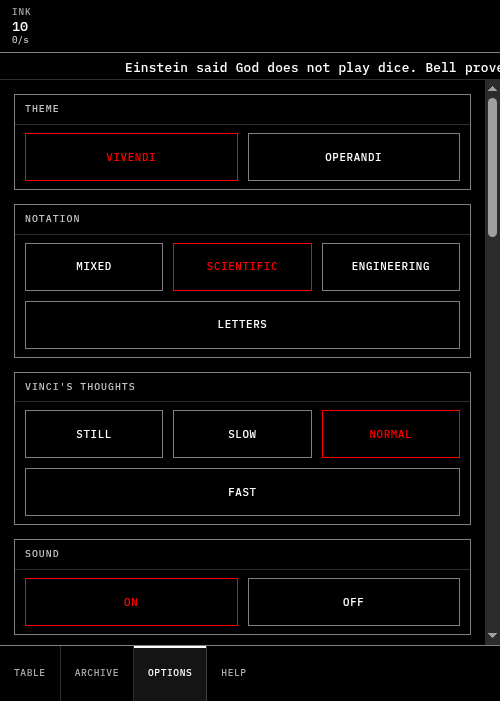
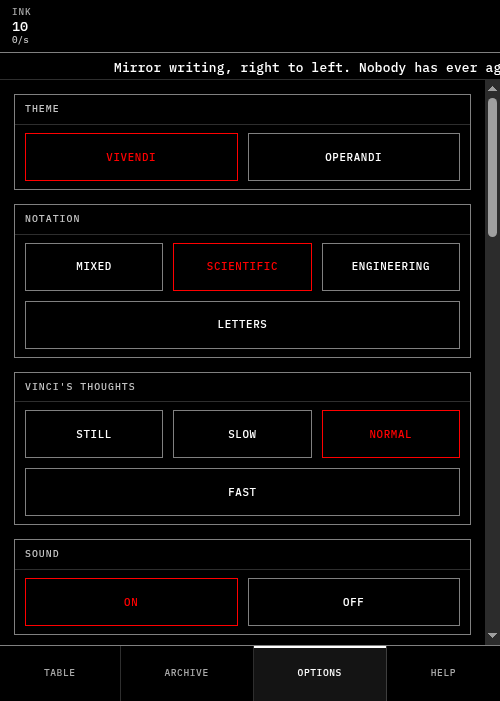
0.1.8: a tab bar that fills, and the whole screen
Sizing each tab to its own label fixed the collision and broke the other
end: an early save has four tabs, they fit easily, and 60% of the bar was
empty. They grow to share whatever width there is now and still refuse to
shrink below their own word, so four fill the bar exactly and eight
scroll. Both ends are asserted.

The app is fullscreen. An installed Android PWA paints its status bar
from the manifest, not from the runtime meta tag, and the manifest said
#000000 while the light theme is white, so the game sat between two black
bands in a colour it never chose. Android hides both bars for a
fullscreen app and the game's own ground reaches every edge instead.

iOS has no fullscreen mode and falls back to standalone, so it gets
apple-mobile-web-app-status-bar-style: black-translucent, which runs the
page under the status bar rather than below a bar of Apple's choosing.
The safe-area insets already keep content out of both.

diff --git a/index.html b/index.html
@@ -5,6 +5,11 @@
     <meta name="viewport" content="width=device-width, initial-scale=1, viewport-fit=cover" />
     <meta name="description" content="A game about Leo." />
     <meta name="theme-color" content="#000000" />
+    <!-- Installed on iOS, where there is no fullscreen mode. Translucent means
+         the page runs under the status bar rather than below a bar in a colour
+         of its own choosing; the safe-area insets keep content out of it. -->
+    <meta name="apple-mobile-web-app-capable" content="yes" />
+    <meta name="apple-mobile-web-app-status-bar-style" content="black-translucent" />
     <title>die Vinci</title>
     <script>
       // Runs before first paint so the theme never flashes. Mirrors the logic

diff --git a/vite.config.ts b/vite.config.ts
@@ -71,7 +71,13 @@ export default defineConfig({
         description: 'A game about Leo.',
         start_url: BASE,
         scope: BASE,
-        display: 'standalone',
+        // The screen, all of it. Android hides its status and gesture bars
+        // for a fullscreen app, so the game's own ground reaches every edge
+        // instead of sitting between two black bands in the wrong colour.
+        // iOS has no fullscreen mode and falls back to standalone, where the
+        // safe-area insets keep the tab bar off the home indicator.
+        display: 'fullscreen',
+        display_override: ['fullscreen', 'standalone'],
         orientation: 'any',
         background_color: '#000000',
         theme_color: '#000000',

diff --git a/src/styles/game.css b/src/styles/game.css
@@ -104,9 +104,12 @@
 }
 
 .tab {
-  /* Sized to its own word, never squeezed. A tab that does not fit is reached
-     by scrolling rather than by being crushed into its neighbour. */
-  flex: 0 0 auto;
+  /* Grows to share whatever width there is, never shrinks below its own word.
+     Fixed at auto the four tabs of an early save left 60% of the bar empty;
+     at flex: 1 the eight tabs of a late one crushed CHALLENGES into
+     AUTOMATION. This fills the bar when they fit and scrolls when they do
+     not. */
+  flex: 1 0 auto;
   border: 0;
   border-right: 1px solid var(--border-faint);
   font-size: 0.64rem;
